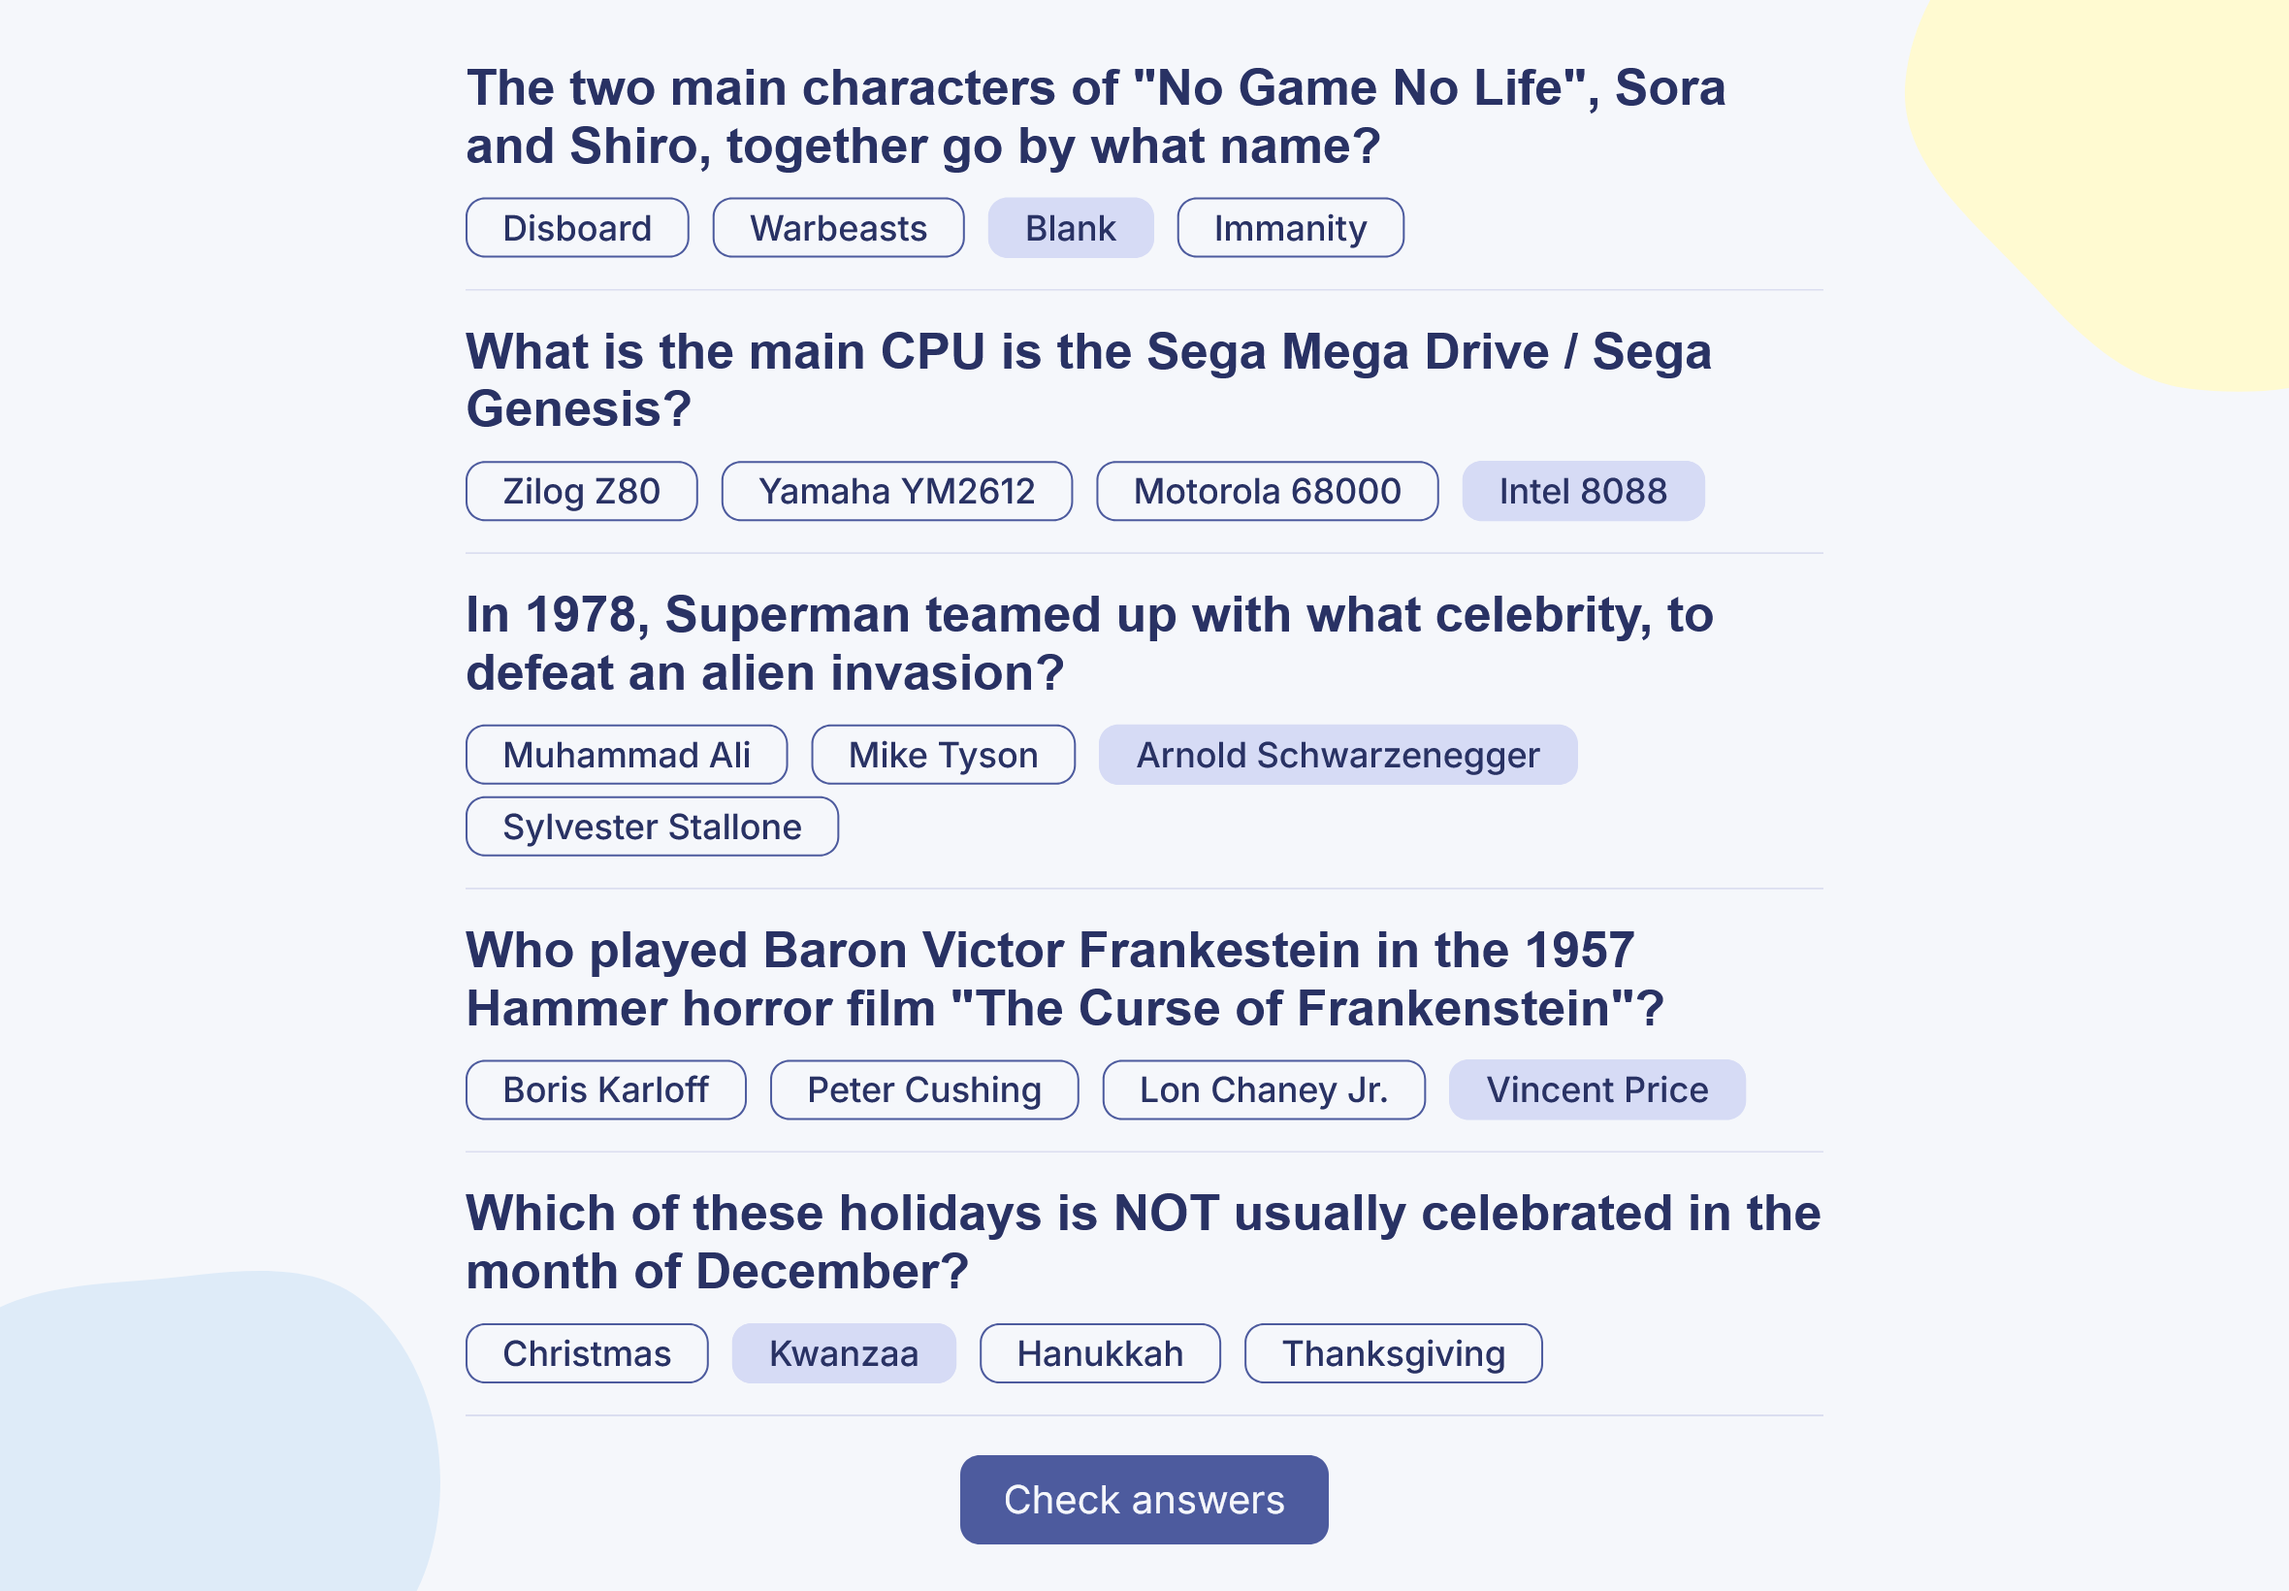
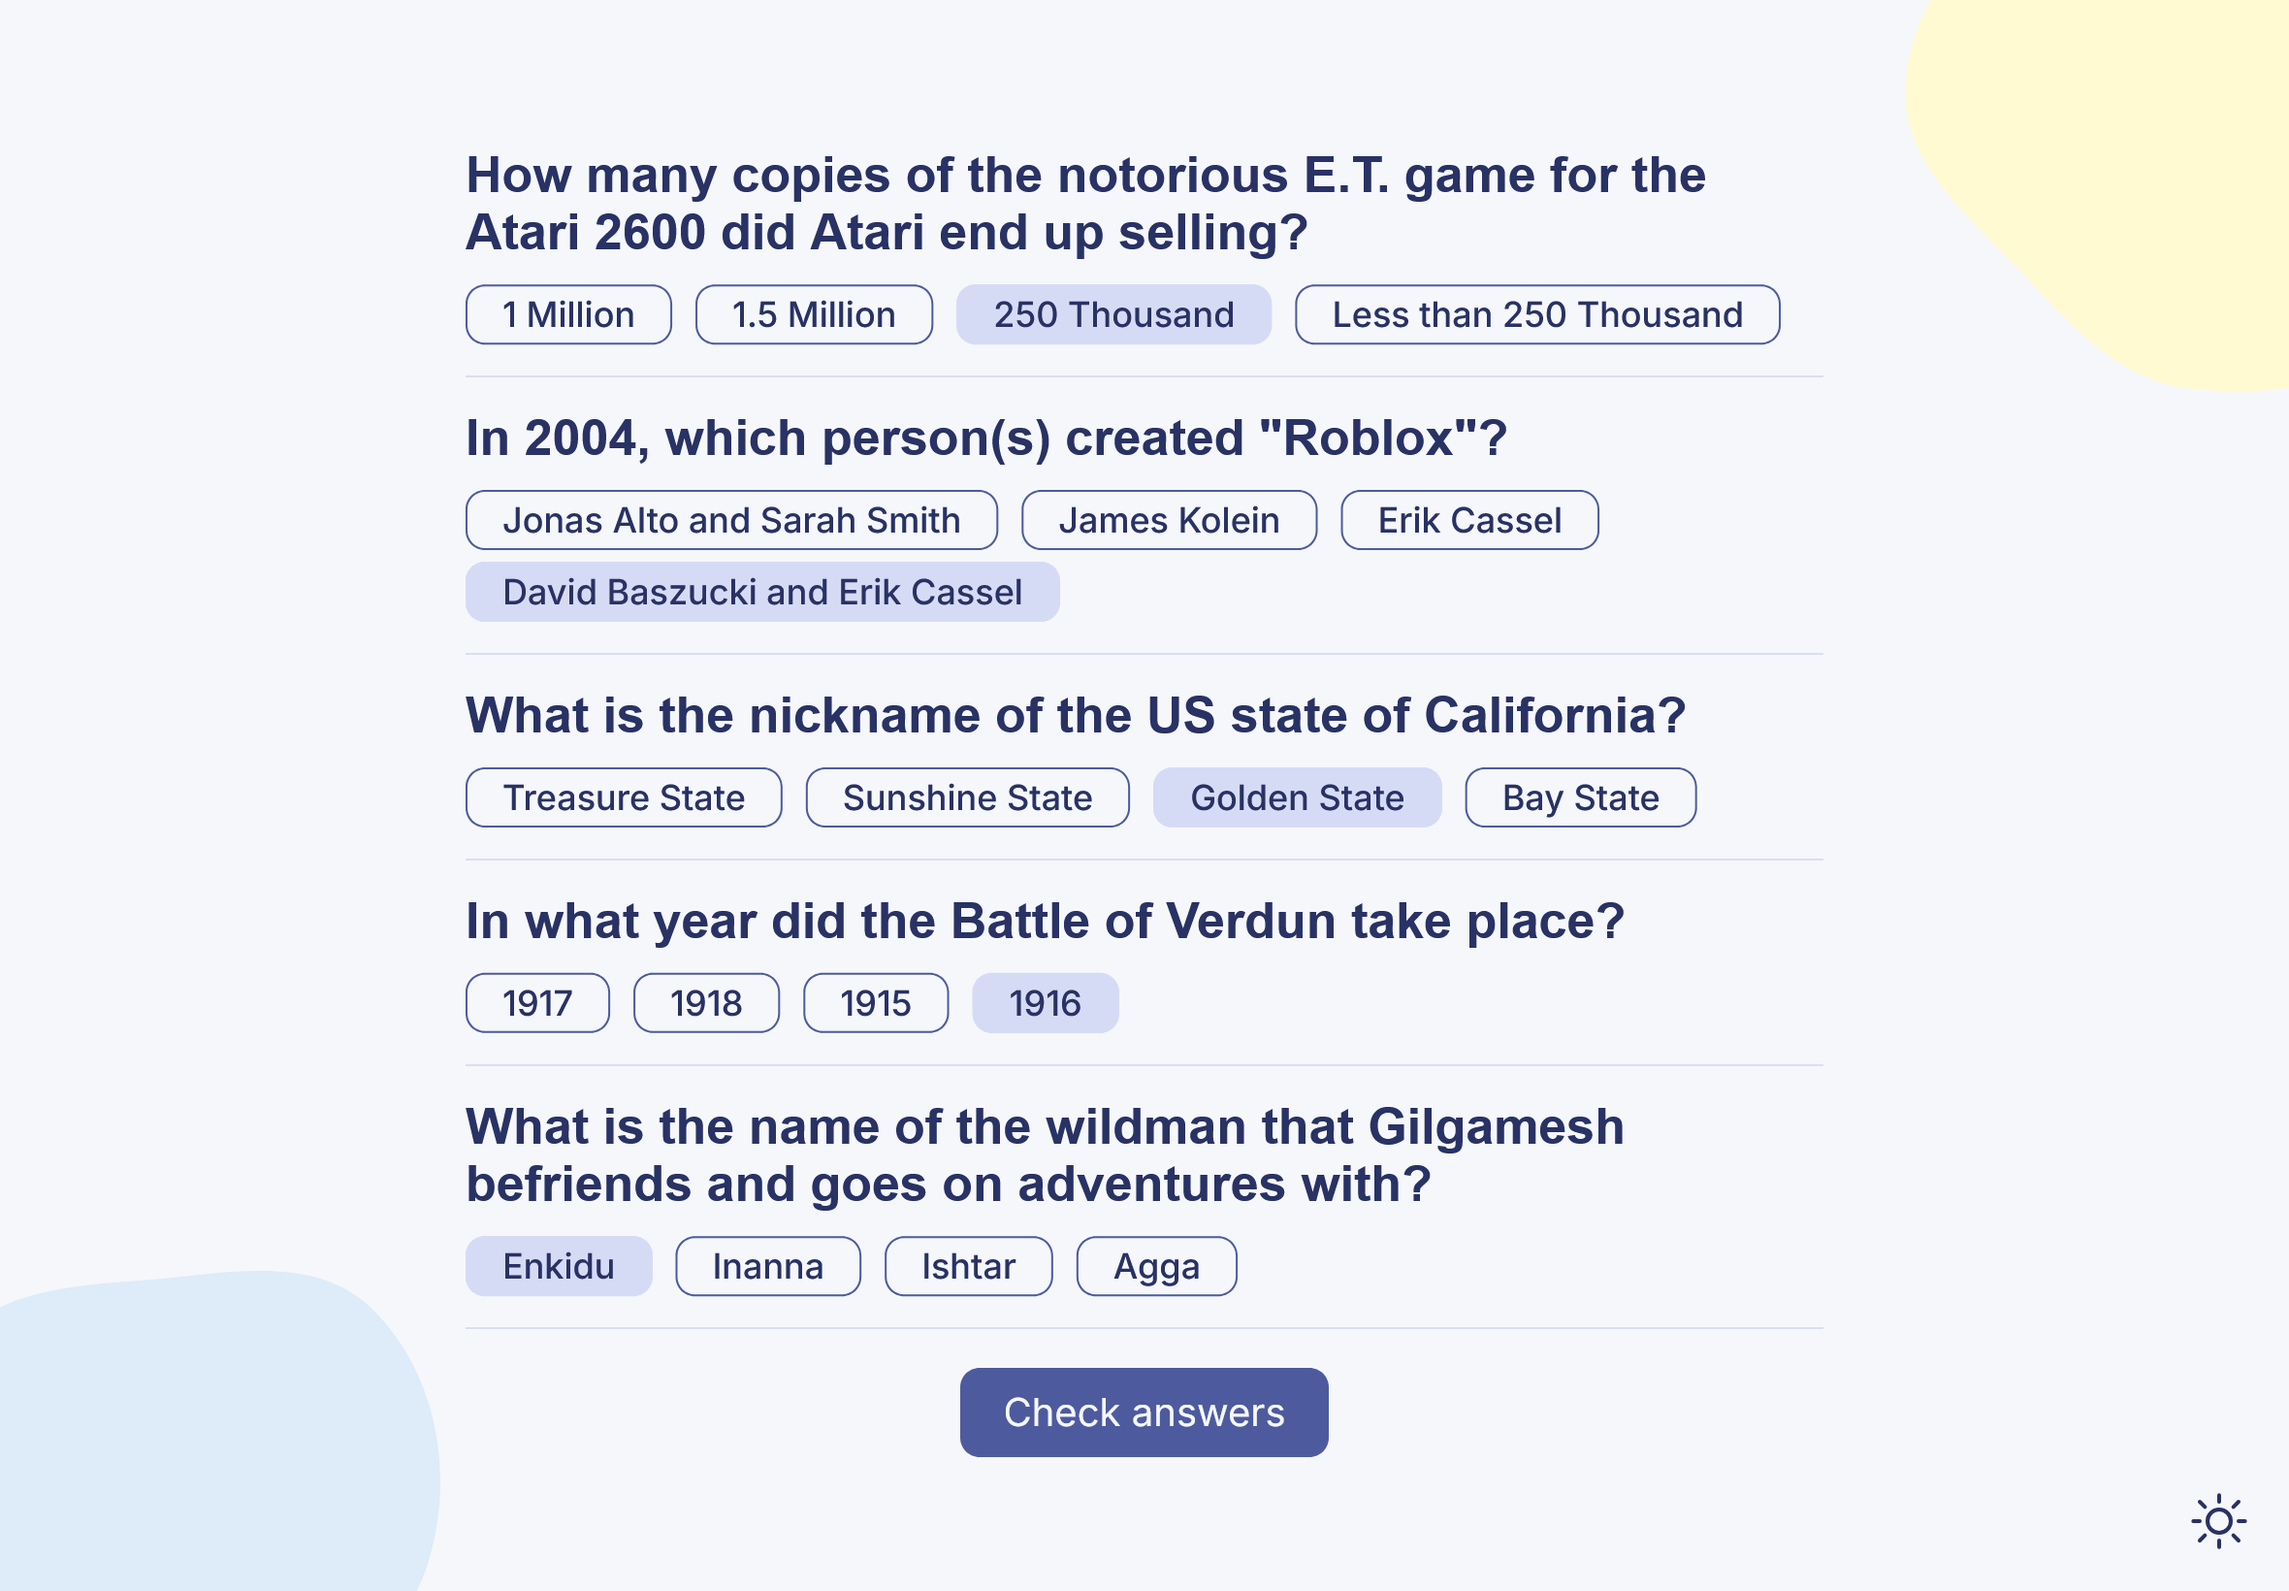
updated readme & screenshots

Changed region(s): [[0.1856, 0.0311, 0.8042, 0.9951], [0.9589, 0.9329, 0.9898, 0.964]]

diff --git a/README.md b/README.md
@@ -8,6 +8,7 @@ A quiz minigame built with Next.js and using API of [Open Trivia Database](https
 * **Next.js 16** (App Router) - server actions
 * **TypeScript** - type safety
 * **Tailwind CSS** - styling
+* **Next Themes** - theme management
 
 ## Project structure
 
@@ -19,24 +20,43 @@ A quiz minigame built with Next.js and using API of [Open Trivia Database](https
 │   │   ├── Game.tsx         # Main game component
 │   │   ├── Card.tsx         # Card component (question &
 │   │   │                      possible answers)
-│   │   └── Answer.tsx       # Answer component with dynamic
-│   │                          classes logic
+│   │   ├── Answer.tsx       # Answer component with dynamic
+│   │   │                      classes logic
+│   │   └── ThemeSwitch.tsx  # Button for toggling themes
 │   ├── lib/
 │   │   ├── data.ts          # Server actions - token management,
 │   │   │                      fetching data, checking answers
 │   │   └── types.ts         # TypeScript types definitions
+│   ├── svgs/                # Graphics for background & theme switch
 │   ├── index.css            # Tailwind custom variables
 │   ├── layout.tsx
 │   ├── page.tsx             # Main game page
 │   ├── loading.tsx
 │   └── error.tsx
-└── public/                  # Assets used for background
+└── public/                  # Image assets
 ```
 
 ## Screenshots
 
-![Screenshot of landing display.](public/screenshots/screenshot-1.png)
+<div>
+    <img src="public/screenshots/screenshot-1.png" alt="Screenshot of landing display. Light mode." width="416" />
+    <img src="public/screenshots/screenshot-2.png" alt="Screenshot of a quiz with some answers selected by user. Light mode." width="416" />
+</div>
 
-![Screenshot of a quiz with some answers selected by user.](public/screenshots/screenshot-2.png)
+<div>
+    <img src="public/screenshots/screenshot-3.png" alt="Screenshot of a final display with correct answers highlighted green, wrong user-selected answers highlighted red, and user score. Light mode." width="416" />
+</div>
 
-![Screenshot of a final display with correct answers highlighted green, wrong user-selected answers highlighted red, and user score.](public/screenshots/screenshot-3.png)
+<h3>Dark mode</h3>
+
+<div>
+    <img src="public/screenshots/screenshot-4.png" alt="Screenshot of a quiz with some answers selected by user. Dark mode." width="416" />
+    <img src="public/screenshots/screenshot-5.png" alt="Screenshot of a final display with correct answers highlighted green, wrong user-selected answers highlighted red, and user score." width="416" />
+</div>
+
+<h3>Dark mode on mobile</h3>
+
+<div>
+    <img src="public/screenshots/screenshot-6.png" alt="Screenshot of a quiz with some answers selected by user. Dark mode. Mobile, portrait orientation." height="600" />
+    <img src="public/screenshots/screenshot-7.png" alt="Screenshot of a final display with correct answers highlighted green, wrong user-selected answers highlighted red, and user score. Dark mode. Mobile, portrait orientation." height="600" />
+</div>
